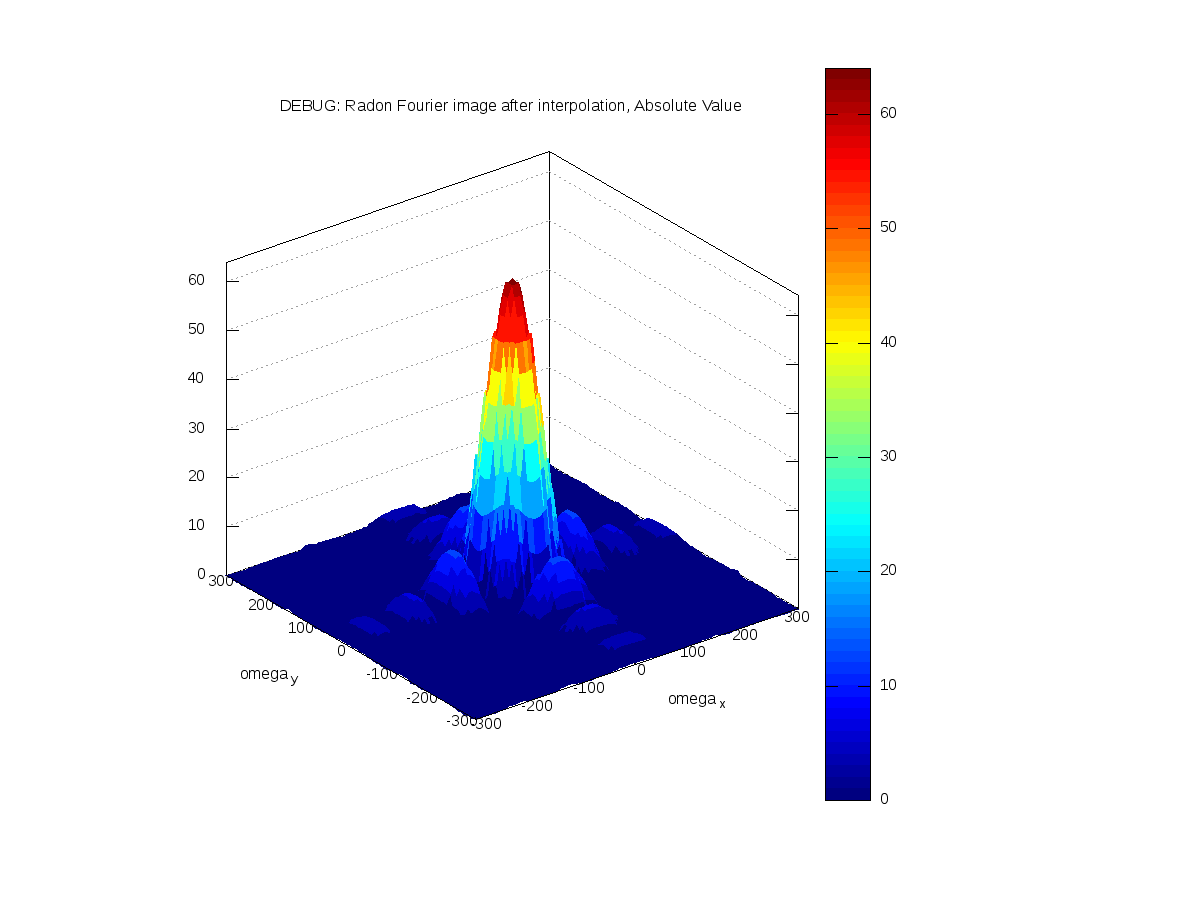
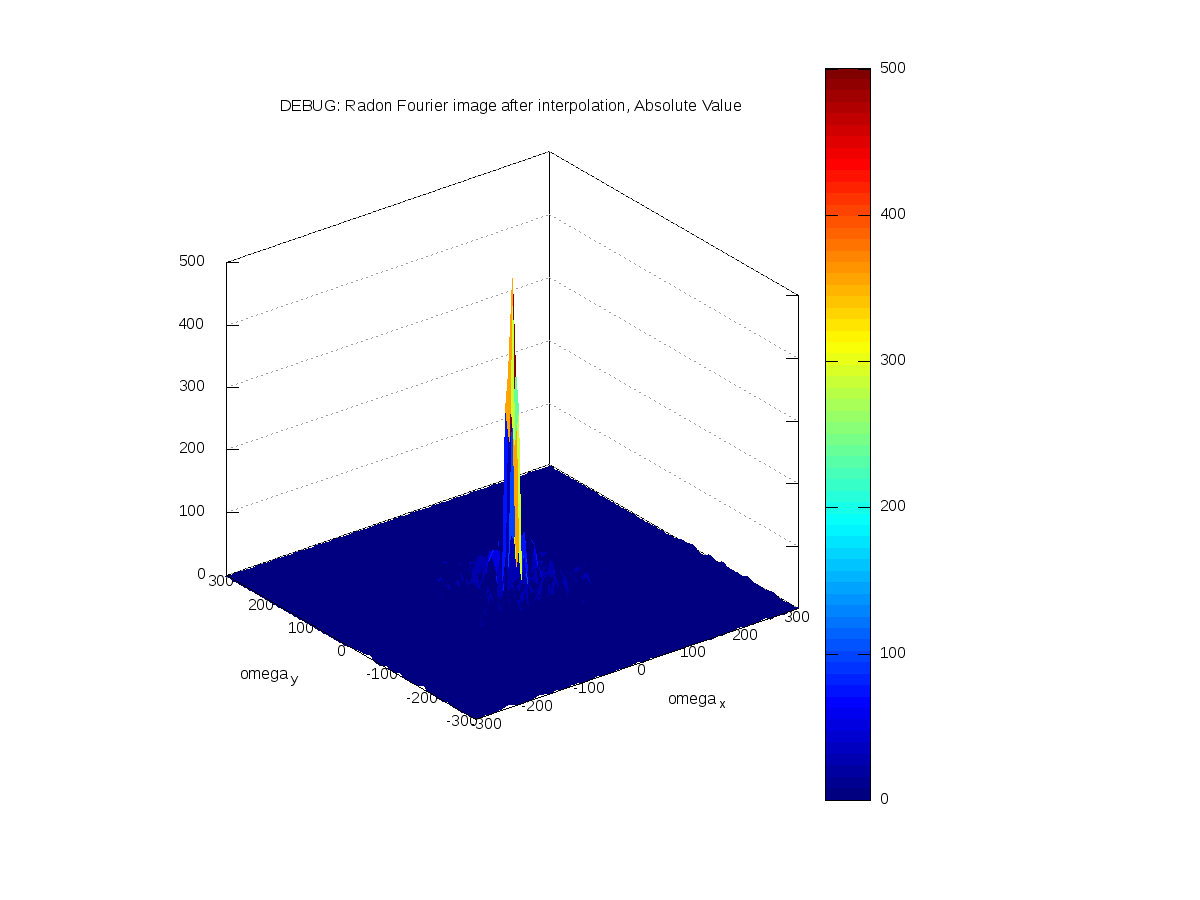
Adding for figures for debugging

diff --git a/branches/run.m b/branches/run.m
@@ -10,33 +10,41 @@ DEBUG=1;
 %% Interpolation method: nearest / linear / cubic
 interp_m='nearest';
 
+%%Zeropadding ratio: filter out high frequency signal
+% 0:none , 1:filter everything
+zeropad_ratio=0;
+
+%%Oversampling ratio: reduce alising
+%1:normal, >1 oversampling
+oversamp_ratio=1;
+
 %% Size of phantom and reconstructed image
 % N is the number of rows and columns in P, which is 256 respectively
 N=64;
 
 %Radon scan angles
 %we may change the number of beams that we use to cover 180 degree
-theta=linspace(0,180-1,180);
+theta=linspace(0,180-1/3,180*3);
 
 %%%%%%%%%%%%%%%%%%%%%%%%%%%%%%%%%%%%%%%%%%%%%%%%%%%%%%%%%%%%%%%%%%%%%
 %% Create Phantom P
 %P = phantom('Shepp-Logan',N);
 
 %Modified Shepp-Logan' gives better visual perception than 'Shepp-Logan'
-%P = phantom('Modified Shepp-Logan',N);     %Fail-safe version
+P = phantom('Modified Shepp-Logan',N);     %Fail-safe version
 
 % a simple 2D delta function which is off-centre
 %P = zeros(N);
 %P(12,12)=1;
 
 % a stripe
-%T=6;
+%T=N/8;
 %P=[zeros(N,(N-T)/2) ones(N,T) zeros(N,(N-T)/2)];
 
 % a square (T must be even)
-T=8;
-P=[zeros(N,(N-T)/2) ones(N,T) zeros(N,(N-T)/2)];
-P=P'.*P; %image of square
+%T=2;
+%P=[zeros(N,(N-T)/2) ones(N,T) zeros(N,(N-T)/2)];
+%P=P'&P; %image of square
 
 % a 45deg straight line
 %P=eye(N);
@@ -80,7 +88,7 @@ print -dpng 2_radon.png
 
 %%%%%%%%%%%%%%%%%%%%%%%%%%%%%%%%%%%%%%%%%%%%%%%%%%%%%%%%%%%%%%%%%%%%%%
 %% Polar Fourier transform
-FRf = fftshift(fft(Rf),1);         % Apply 1D Fourier transform in each column
+FRf = fft(Rf);         % Apply 1D Fourier transform in each column
 
 % Determine the range of omega
 ds=mean(diff(s));
@@ -89,19 +97,32 @@ d_omega=2*pi/ds;
 omega_max=size_omega*d_omega/2;
 omega=linspace(-omega_max,omega_max,size_omega);
 
+%% Zeropadding: remove high-frequency components and reduce noise
+pad_begin=floor(size_omega*(1-zeropad_ratio)/2)+1;
+pad_end=size_omega-pad_begin+1;
+FRf(pad_begin:pad_end,:)=0;
+FRf=fftshift(FRf,1);
+
 %% Show and save the Fourier transform image
 figure(3)
+imagesc(theta, omega, abs(FRf)),colormap(gray),colorbar
+xlabel('theta'),ylabel('omega_s')
+title('Polar Fourier transform of Radon image, Absolute Value')
+print -dpng 3_fourier_radon_abs.png
+
+if(DEBUG)
+figure(4)
 imagesc(theta, omega, real(FRf)),colormap(gray),colorbar
 xlabel('theta'),ylabel('omega_s')
 title('Polar Fourier transform of Radon image, Real Part')
 print -dpng 3a_fourier_radon_real.png
 
-figure(4)
+figure(5)
 imagesc(theta, omega, imag(FRf)),colormap(gray),colorbar
 xlabel('theta'),ylabel('omega_s')
 title('Polar Fourier transform of Radon image, Imaginary Part')
 print -dpng 3b_fourier_radon_imag.png
-
+end
 %%%%%%%%%%%%%%%%%%%%%%%%%%%%%%%%%%%%%%%%%%%%%%%%%%%%%%%%%%%%%%%%%%%%%%%%%%%%
 %% Change from polar to x-y coordinate
 
@@ -114,6 +135,8 @@ label_WY = WW.*sind(THETA);
 omega_x = omega;
 omega_y = omega;
 [WX WY]=meshgrid( omega_x , omega_y );
+
+N=N*oversamp_ratio;
 d_omega=mean(diff(omega));
 dx=2*pi/d_omega;
 max_x=N*dx/2;
@@ -129,18 +152,18 @@ FRf_array=reshape(FRf,cols*rows,1);
 
 %% Apply interpolation
 F2f = griddata(WX_array,WY_array,FRf_array,WX,WY,interp_m);
-%F2f(isnan(F2f))=0;        % set all NaN (Not a Number) error to zero
+F2f(isnan(F2f))=0;        % set all NaN (Not a Number) error to zero
 
 %% DEBUG: test label WX,WY
 if(DEBUG)
-figure(95)
+figure(6)
 surf(label_WX,label_WY,abs(FRf)),colorbar,colormap(jet)
 axis tight;
 title('DEBUG: Radon Fourier image before interpolation, Absolute Value')
 xlabel('theta'),ylabel('omega')
 print -dpng 4c_fourier_polar_abs.png
 
-figure(96)
+figure(7)
 surf(WX,WY,abs(F2f)),colorbar,colormap(jet)
 axis tight;
 title('DEBUG: Radon Fourier image after interpolation, Absolute Value')
@@ -148,31 +171,40 @@ xlabel('omega_x'),ylabel('omega_y')
 print -dpng 4d_fourier_xy_abs.png
 end
 
-%% Save image
-figure(5)
+%% Save image of F2f
+figure(8)
+imagesc(omega_x,omega_y,abs(F2f)),colormap(gray),colorbar
+xlabel('omega_x'),ylabel('omega_y')
+title('polar to x-y interpolation, Absolute Value')
+print -dpng 4_fourier_xy_abs.png
+
+if(DEBUG)
+figure(9)
 imagesc(omega_x,omega_y,real(F2f)),colormap(gray),colorbar
 xlabel('omega_x'),ylabel('omega_y')
 title('polar to x-y interpolation, Real Part')
 print -dpng 4a_fourier_xy_real.png
 
-figure(6)
+figure(10)
 imagesc(omega_x, omega_y, imag(F2f)),colormap(gray),colorbar
 xlabel('omega_x'),ylabel('omega_y')
 title('polar to x-y interpolation, Imaginary Part')
 print -dpng 4b_fourier_xy_imag.png
-
+end
 %%%%%%%%%%%%%%%%%%%%%%%%%%%%%%%%%%%%%%%%%%%%%%%%%%%%%%%%%%%%%%%%%%%%%%%%%%
 %% Apply Inverse FFT to F2f
-f = ifft2(fftshift(F2f));
+f = fftshift(ifft2(fftshift(F2f)));
 
-figure(7)
+figure(11)
 imagesc(x,y,real(f)),colormap(gray),colorbar
 xlabel('x'),ylabel('y')
 title('Reconstructed Image, Real Part')
 print -dpng 5_reconstruct_xy_real.png
 
-figure(8)
+if(DEBUG)
+figure(12)
 imagesc(x,y,imag(f)),colormap(gray),colorbar
 xlabel('x'),ylabel('y')
 title('Reconstructed Image, Imaginary Part')
 print -dpng 5_reconstruct_xy_imag.png
+end
